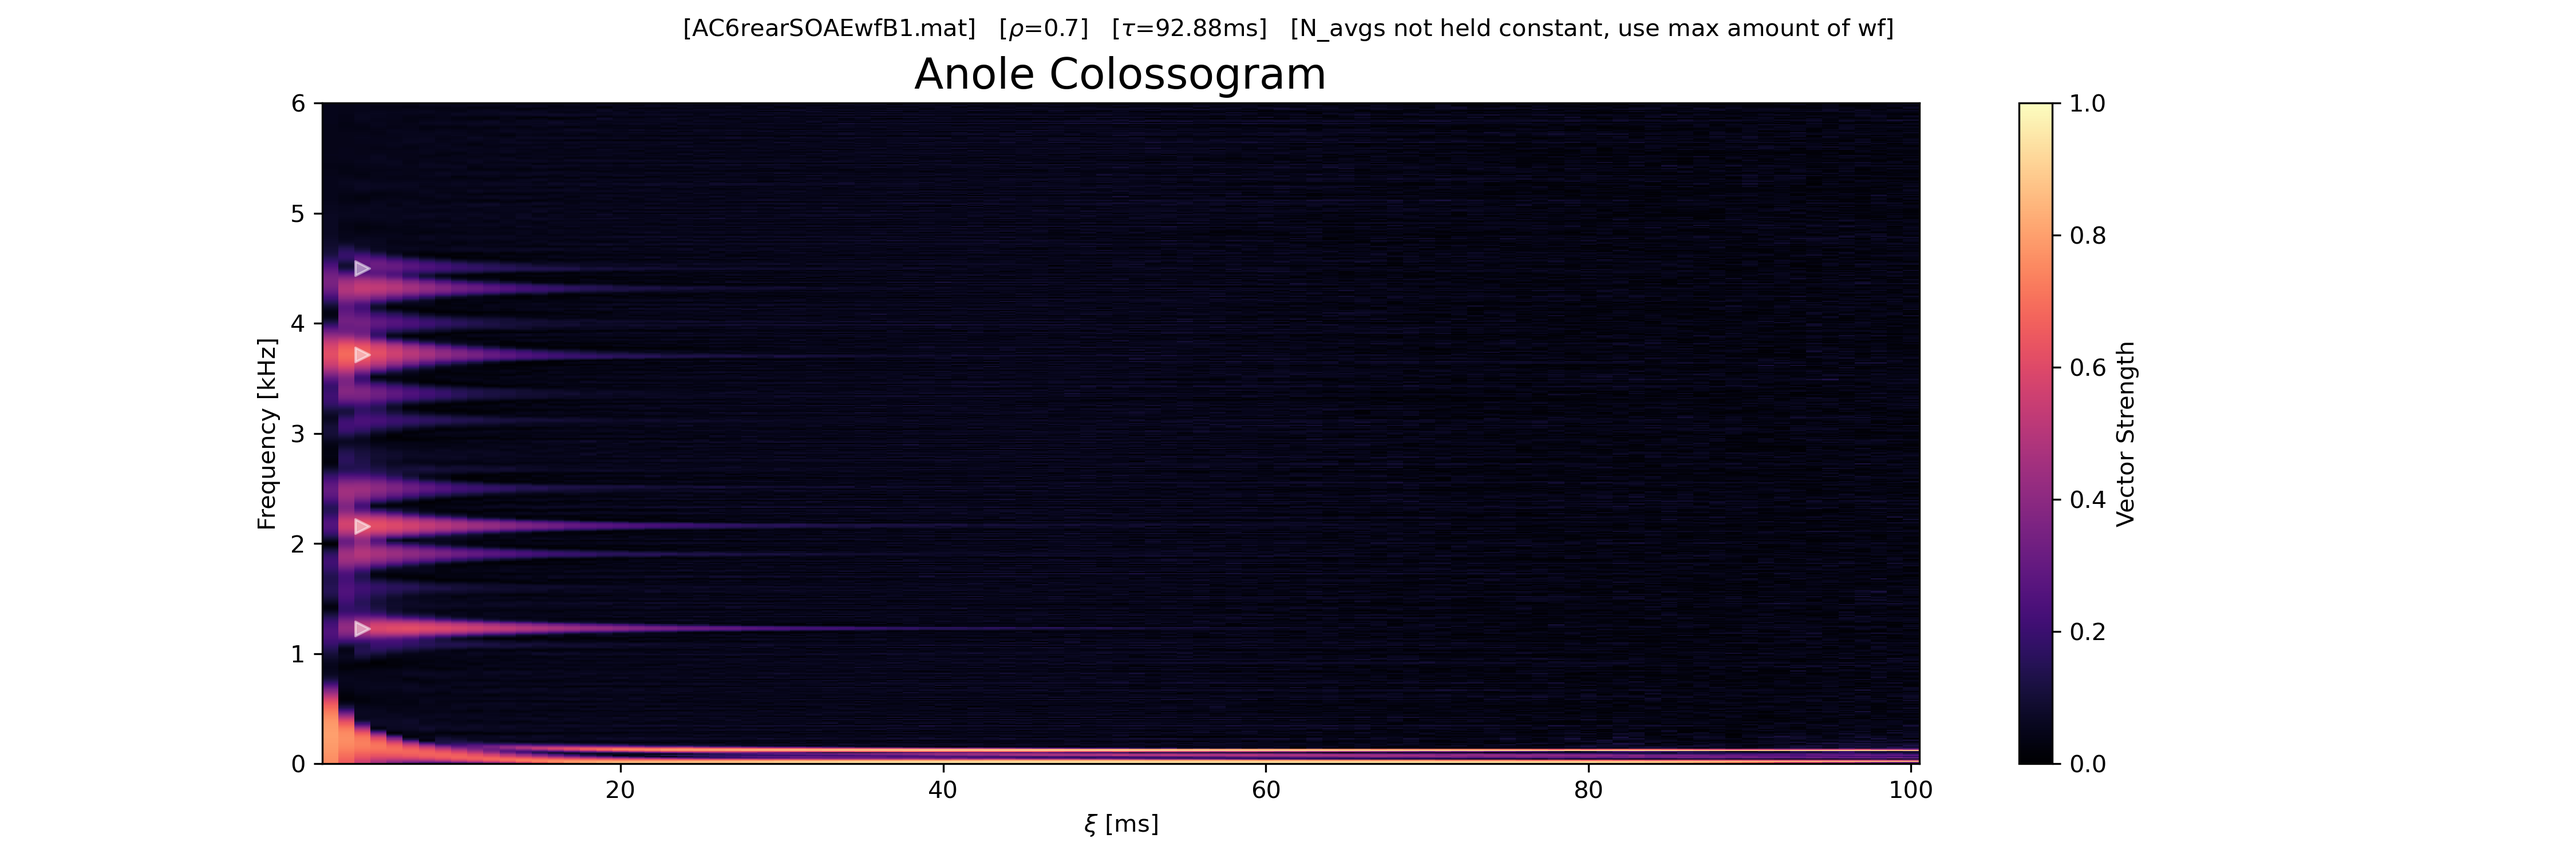
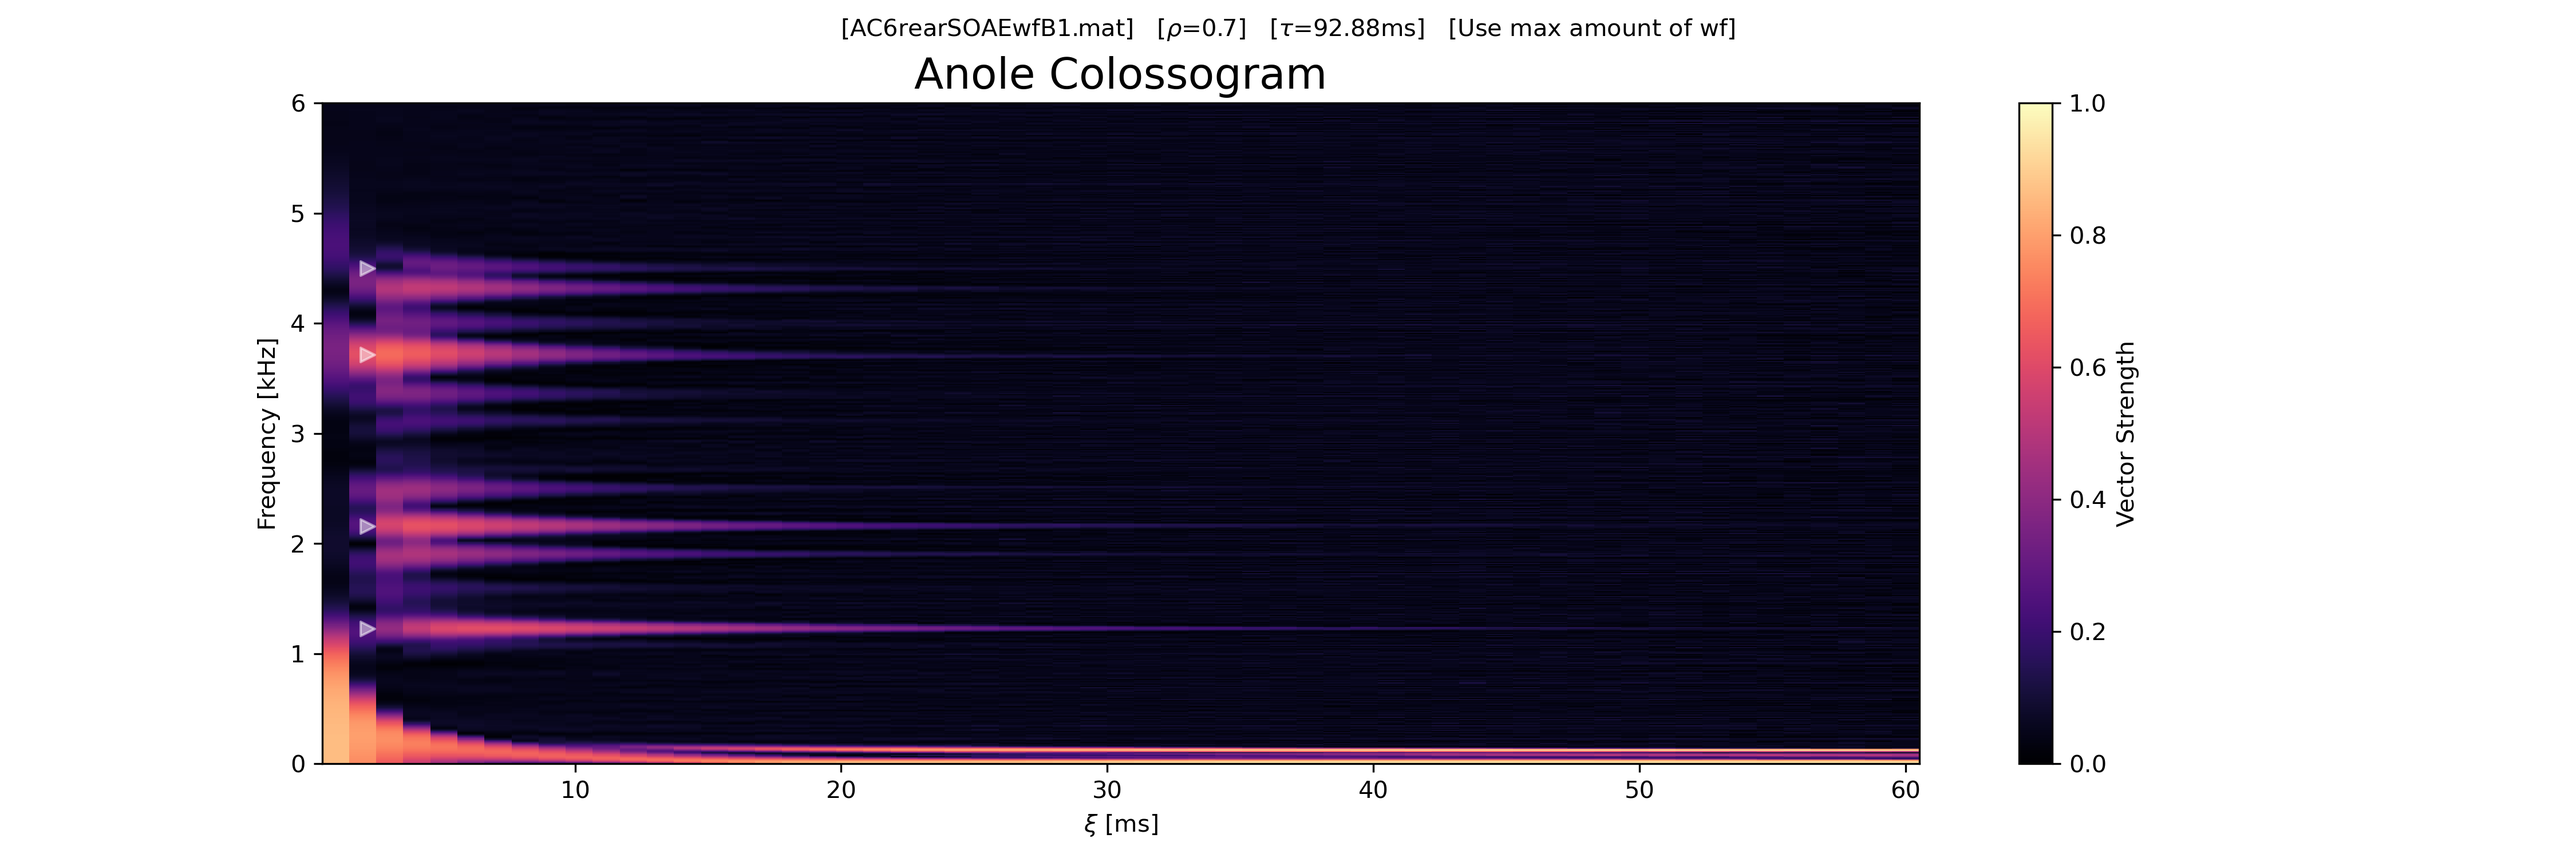
finished n_phase_diffs thing

diff --git a/N_xi Fits/N_xi N_phase_diffs comparison.py b/N_xi Fits/N_xi N_phase_diffs comparison.py
@@ -18,6 +18,7 @@ wf_idx = 0
 for species in ['Anole']:
     for seths_way in [True, False]:
         for N_phase_diffs_held_const in [True, False]:
+            print("Seths way:", seths_way, "N held const:", N_phase_diffs_held_const)
             wf, wf_fn, fs, peak_freqs, bad_fit_freqs = get_wf(species=species, wf_idx=wf_idx)
             print(f"Processing {wf_fn}")
             
@@ -43,7 +44,7 @@ for species in ['Anole']:
             # Plotting parameters
             plotting_colossogram = 1
             plotting_peak_picks = 0
-            plotting_fits = 0
+            plotting_fits = 1
             show_plots = 0
             s_signal=1
             s_noise=1
@@ -79,15 +80,15 @@ for species in ['Anole']:
             "Set filepaths"
             fn_id = rf"tau={tau*1000:.0f}ms, rho={rho}, {species}, {wf_fn.split('.')[0]}"
             suptitle = rf"[{wf_fn}]   [$\rho$={rho}]   [$\tau$={tau*1000:.2f}ms]"
+            if seths_way:
+                suptitle+= "   [seth new way]"
+                fn_id += ", seth new way"
             if N_phase_diffs_held_const:
                 suptitle+= "   [N_phase_diffs held constant]"
                 fn_id += ", N_phase_diffs held const"
             else:
-                suptitle+= "   [N_phase_diffs not held constant, use max amount of wf]"
+                suptitle+= "   [Use max amount of wf]"
                 fn_id += ", max amount of wf"
-            if seths_way:
-                suptitle+= "   [seth new way]"
-                fn_id += ", seth new way"
             pkl_fn = f'C_xi Decay Coherences - {fn_id}'
             N_xi_folder = r'N_xi Fits/N_phase_diffs Comparison/'
             pkl_folder = N_xi_folder + r'Coherences Pickles/'
@@ -105,7 +106,7 @@ for species in ['Anole']:
             else:
                 print(f"Calculating coherences for {wf_fn} with rho={rho}")
                 if seths_way:
-                    coherences = get_coherences(wf, fs, tauS, min_xi, max_xi, delta_xi, rho, N_phase_diffs_held_const)
+                    f, xis, coherences = get_coherences(wf, fs, tauS, min_xi, max_xi, delta_xi, rho, N_phase_diffs_held_const)
                 else:
                     num_xis = int((max_xi - min_xi) / delta_xi) + 1
                     xis = np.linspace(min_xi, max_xi, num_xis)
@@ -114,7 +115,7 @@ for species in ['Anole']:
                     f = np.array(rfftfreq(tauS, 1/fs))
                     # Make sure we have a consistent number of segments to take vector strength over since this will change with xi
                     if N_phase_diffs_held_const:
-                        N_segs = int((len(wf) - tauS) / max_xiS)
+                        N_segs = int((len(wf) - tauS) / max_xiS) + 1
                     else:
                         N_segs = None
 

diff --git a/phaseco/funcs.py b/phaseco/funcs.py
@@ -142,7 +142,7 @@ def get_stft(wf, fs, tau=None, tauS=None, xi=None, rho=None, win_type='boxcar', 
   final_wf_index = len(wf) - 1
     
   # next, we get what we would be the largest potential seg_start_index
-  latest_potential_seg_start_index = final_wf_index - (tauS - 1) # start at the final_wf_index. we need to collect nperseg points. this final index is our first one, and then we need nperseg - 1 more. 
+  latest_potential_seg_start_index = final_wf_index - (tauS - 1) # start at the final_wf_index. we need to collect nperseg points. this final index is our first one, and then we need tauS - 1 more. 
   seg_start_indices = np.arange(0, latest_potential_seg_start_index + 1, xiS)
     # the + 1 here is because np.arange won't ever include the "stop" argument in the output array... but it could include (stop - 1) which is just our final_seg_start_index!
 
@@ -154,7 +154,8 @@ def get_stft(wf, fs, tau=None, tauS=None, xi=None, rho=None, win_type='boxcar', 
   else:
     # if no N_segs is passed in, we'll just use the max number of segments
     N_segs = len(seg_start_indices)
-
+    # this is equivalent to int((len(wf) - tauS) / xiS) + 1
+  
   # Initialize segmented waveform matrix
   segmented_wf = np.zeros((N_segs, tauS))
   
@@ -391,11 +392,6 @@ def get_coherences(wf, fs, tauS, min_xi, max_xi, delta_xi, rho, N_phase_diffs_he
     sigmaS = get_sigmaS(fwhm=rho*xi, fs=fs)
     f, stft = get_stft(wf=wf, fs=fs, tauS=tauS, xi=min_xi, win_type=("gaussian", sigmaS))
     
-    # Check your math
-    if xi == max_xi:
-      if np.shape(stft)[0] != N_phase_diffs:
-        print("DID YOU CALCULATE N_phase_diffs WRONG?")
-    
     # initialize array for phase diffs
     phase_diffs = np.zeros((N_phase_diffs, N_bins))
     
@@ -412,6 +408,7 @@ def get_coherences(wf, fs, tauS, min_xi, max_xi, delta_xi, rho, N_phase_diffs_he
       phase_diffs[seg] = phases[seg + int(xiS/seg_spacingS)] - phases[seg]
     
     coherences[:, i] = get_avg_vector(phase_diffs)[0]
+  return f, xis, coherences
   
 
 def get_asym_coherence(wf, fs, tauS, xi, fwhm=None, rho=None, N_segs=None):

diff --git a/N_xi Fits/N_xi fit.py b/N_xi Fits/N_xi fit.py
@@ -98,7 +98,7 @@ for species in ['Anole']:
             max_xiS = max(xis) * fs
             f = np.array(rfftfreq(tauS, 1/fs))
             # Make sure we have a consistent number of segments to take vector strength over since this will change with xi
-            N_segs = int((len(wf) - tauS) / max_xiS)
+            N_segs = int((len(wf) - tauS) / max_xiS) + 1
 
             coherences = np.zeros((len(f), len(xis)))
             for i, xi in enumerate(tqdm(xis)):
